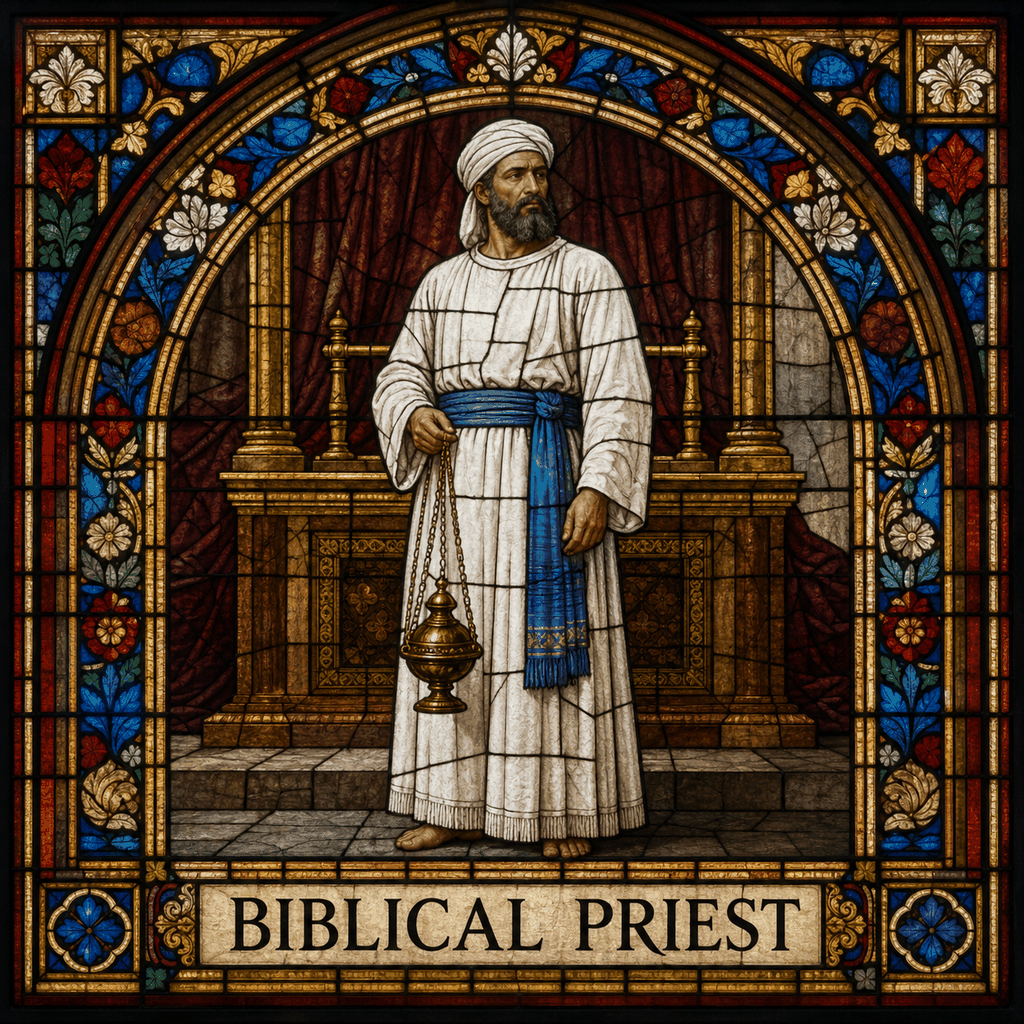
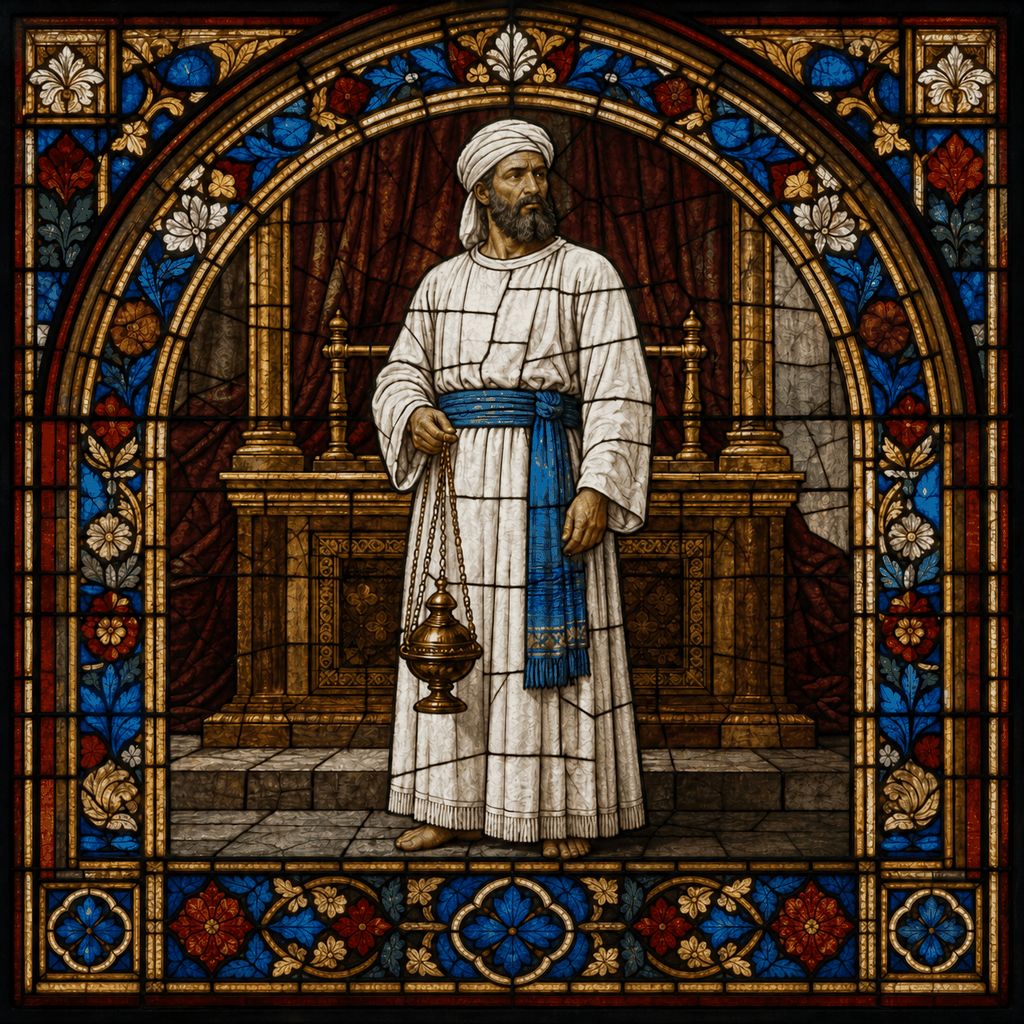
New generics

diff --git a/CLAUDE.md b/CLAUDE.md
@@ -492,9 +492,9 @@ across many people rather than duplicated per person:
 **Art style (updated 2026-09-01):** the generic icons were originally
 hand-drawn outline/line-art SVGs. They were replaced 2026-09-01 with
 AI-generated stained-glass-style illustrations matching the per-person
-`images/portraits2-web/` portraits, each with a role label ("BIBLICAL
-KING") and the standard `"AI-generated image — no copyright claimed"`
-provenance line burned in. Layout on disk:
+`images/portraits2-web/` portraits. Unlike the named portraits, these shared
+fallbacks have no nameplate, role label, caption, or other text burned into
+the artwork. Layout on disk:
 - `images/portraits/generic-<role>.jpg` — the served file (512px, ~95KB),
   what every `image.file` / index `image` value points at. Resolved
   straight from `images/portraits/` by `resolve_portrait_file()` (no
